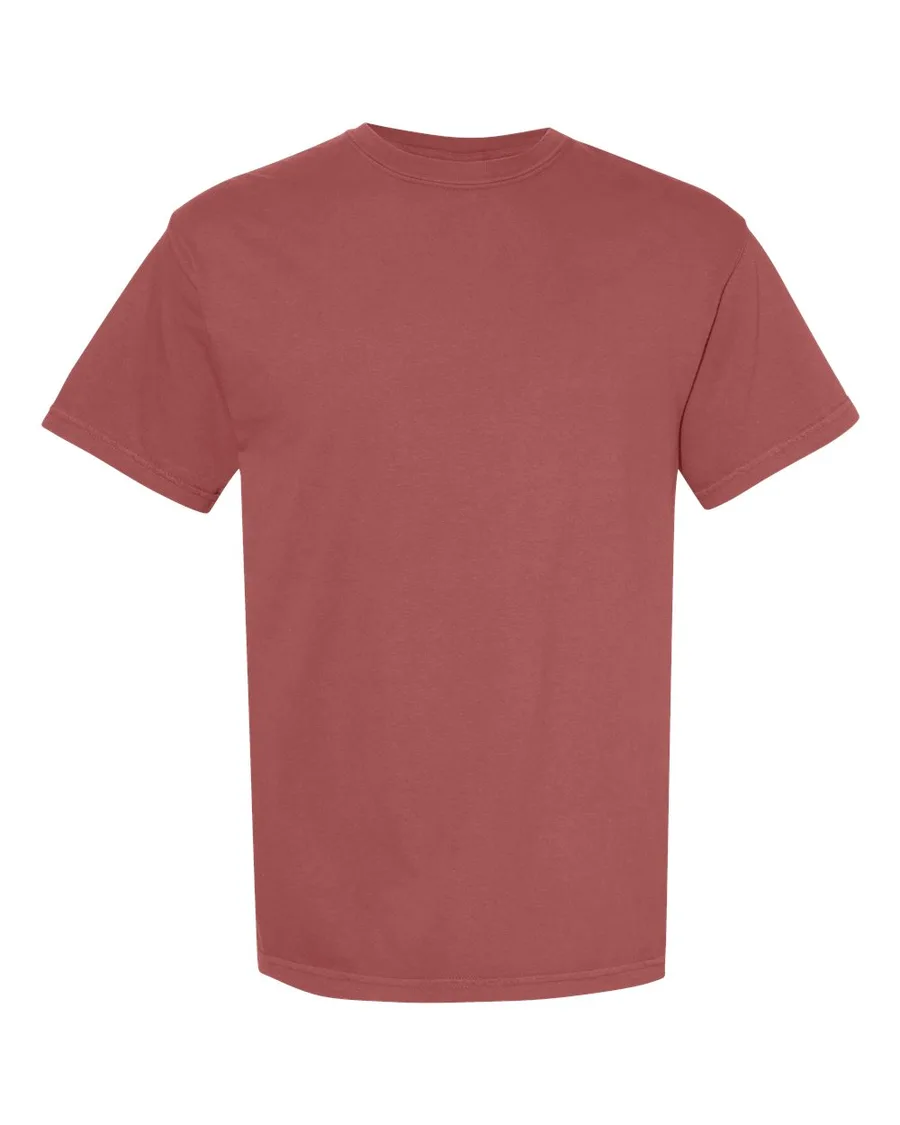
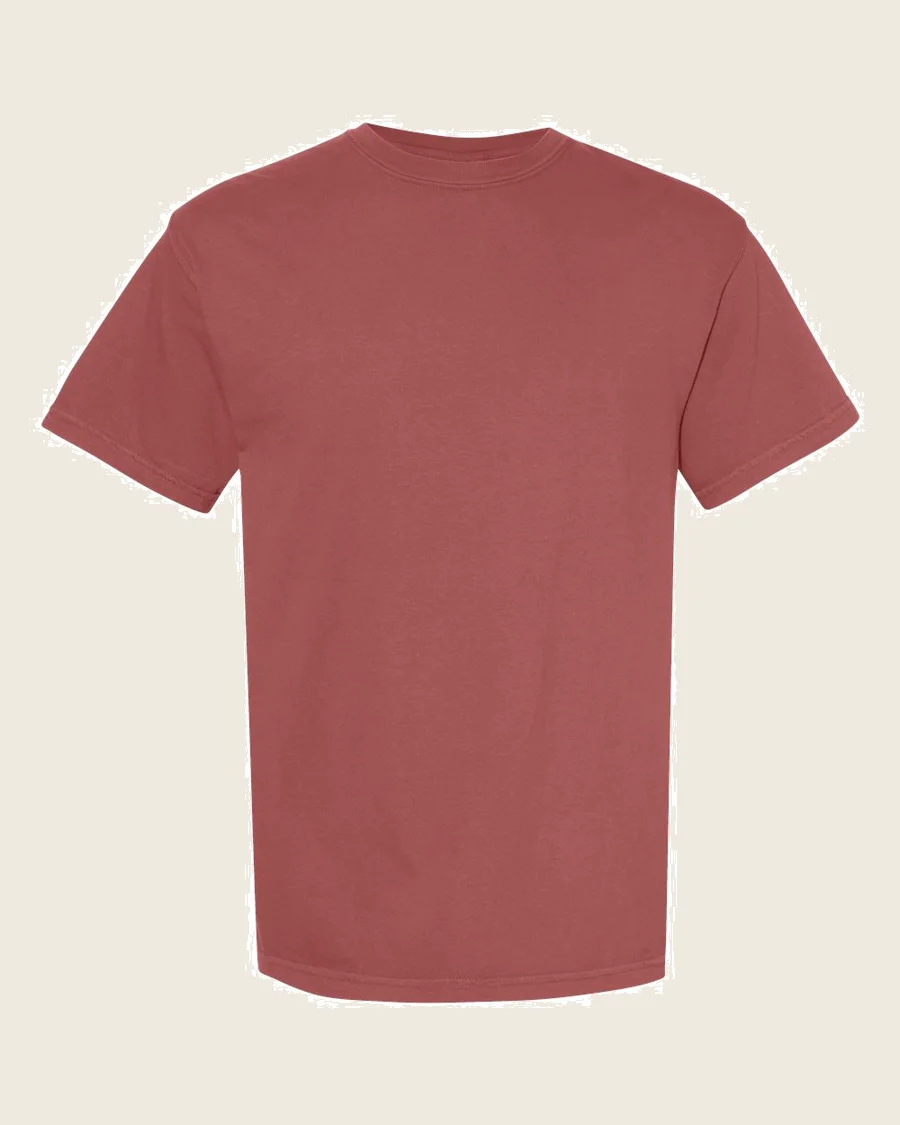
Blank photos whole on a bone tile: studio white painted bone, frames fit instead of crop

diff --git a/src/components/common/ProductImage.jsx b/src/components/common/ProductImage.jsx
@@ -8,7 +8,7 @@ export default function ProductImage({ src, alt, label, ratio = 1, caption, ...r
   const [broken, setBroken] = useState(false)
   if (!src || broken) return <Placeholder label={label} ratio={ratio} caption={caption} {...rest} />
   return (
-    <Box position="relative" w="100%" pt={`${100 / ratio}%`} bg="ink.400" overflow="hidden" borderRadius="base" {...rest}>
+    <Box position="relative" w="100%" pt={`${100 / ratio}%`} bg="#EFEAE0" overflow="hidden" borderRadius="base" {...rest}>
       <Image
         src={src}
         alt={alt || label || ''}
@@ -16,7 +16,7 @@ export default function ProductImage({ src, alt, label, ratio = 1, caption, ...r
         inset={0}
         w="100%"
         h="100%"
-        objectFit="cover"
+        objectFit="contain"
         loading="lazy"
         onError={() => setBroken(true)}
       />
